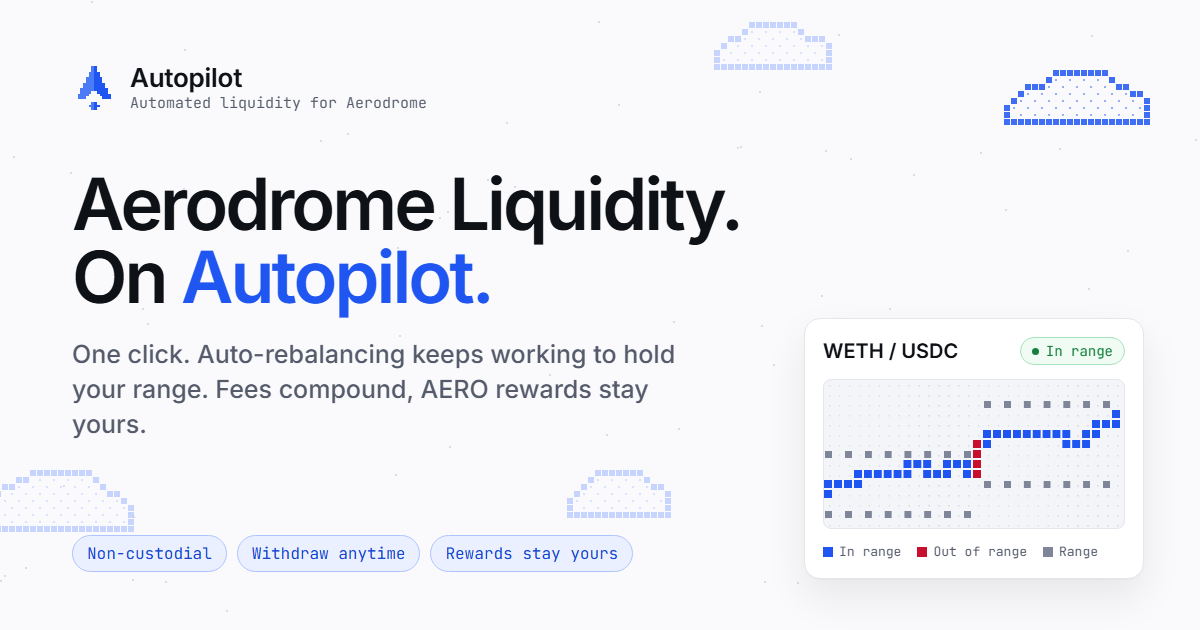
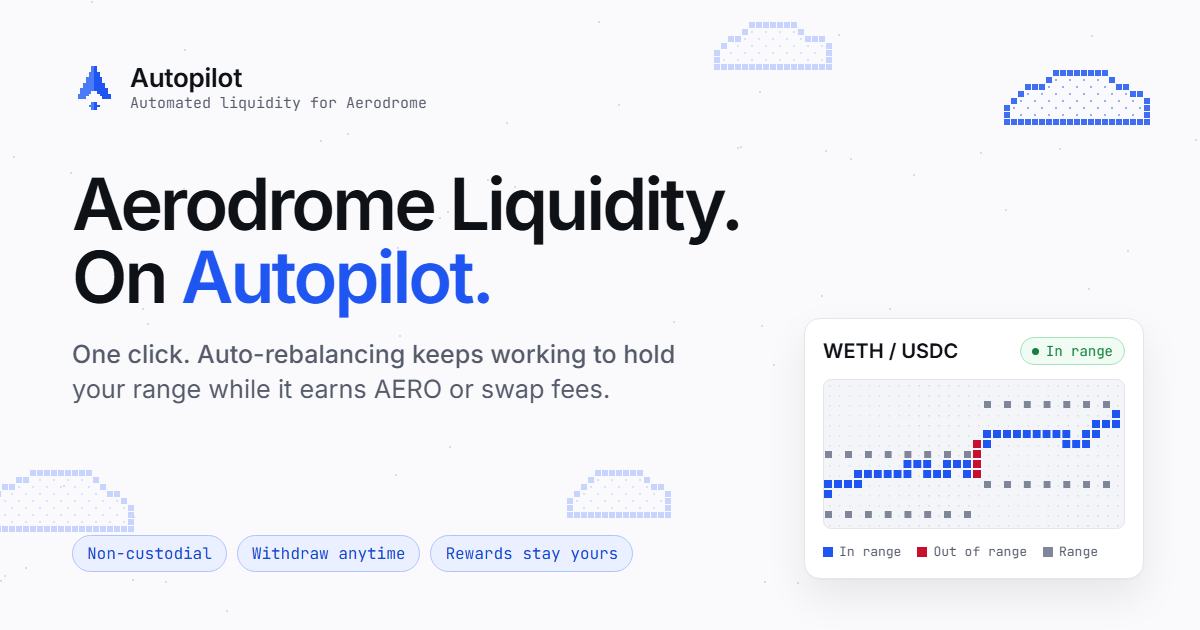
Update social preview image to match either/or earnings copy
Replace "Fees compound, AERO rewards stay yours." in og.png with
"...hold your range while it earns AERO or swap fees." (same font,
colour and position) and cache-bust og:image / twitter:image with ?v=2.

Changed region(s): [[0.0617, 0.6032, 0.555, 0.6333], [0.0617, 0.6635, 0.1233, 0.6937]]

diff --git a/index.html b/index.html
@@ -16,14 +16,14 @@
 <meta property="og:title" content="Aerodrome Liquidity. On Autopilot.">
 <meta property="og:description" content="One click to put your Aerodrome LP on auto-rebalancing. It earns AERO or swap fees, depending on the pool. Non-custodial, withdraw anytime.">
 <meta property="og:url" content="https://autopilot-aero-landing.vercel.app/">
-<meta property="og:image" content="https://autopilot-aero-landing.vercel.app/assets/og.png">
+<meta property="og:image" content="https://autopilot-aero-landing.vercel.app/assets/og.png?v=2">
 <meta property="og:image:width" content="1200">
 <meta property="og:image:height" content="630">
 <meta property="og:image:alt" content="Autopilot: Aerodrome Liquidity. On Autopilot. A pixel chart of a WETH/USDC position staying in range.">
 <meta name="twitter:card" content="summary_large_image">
 <meta name="twitter:title" content="Aerodrome Liquidity. On Autopilot.">
 <meta name="twitter:description" content="One click to put your Aerodrome LP on auto-rebalancing. It earns AERO or swap fees, depending on the pool.">
-<meta name="twitter:image" content="https://autopilot-aero-landing.vercel.app/assets/og.png">
+<meta name="twitter:image" content="https://autopilot-aero-landing.vercel.app/assets/og.png?v=2">
 <link rel="preconnect" href="https://fonts.googleapis.com">
 <link rel="stylesheet" href="https://fonts.googleapis.com/css2?family=Inter:wght@400;500;600;700&family=JetBrains+Mono:wght@400;500;600&display=swap">
 <style>
